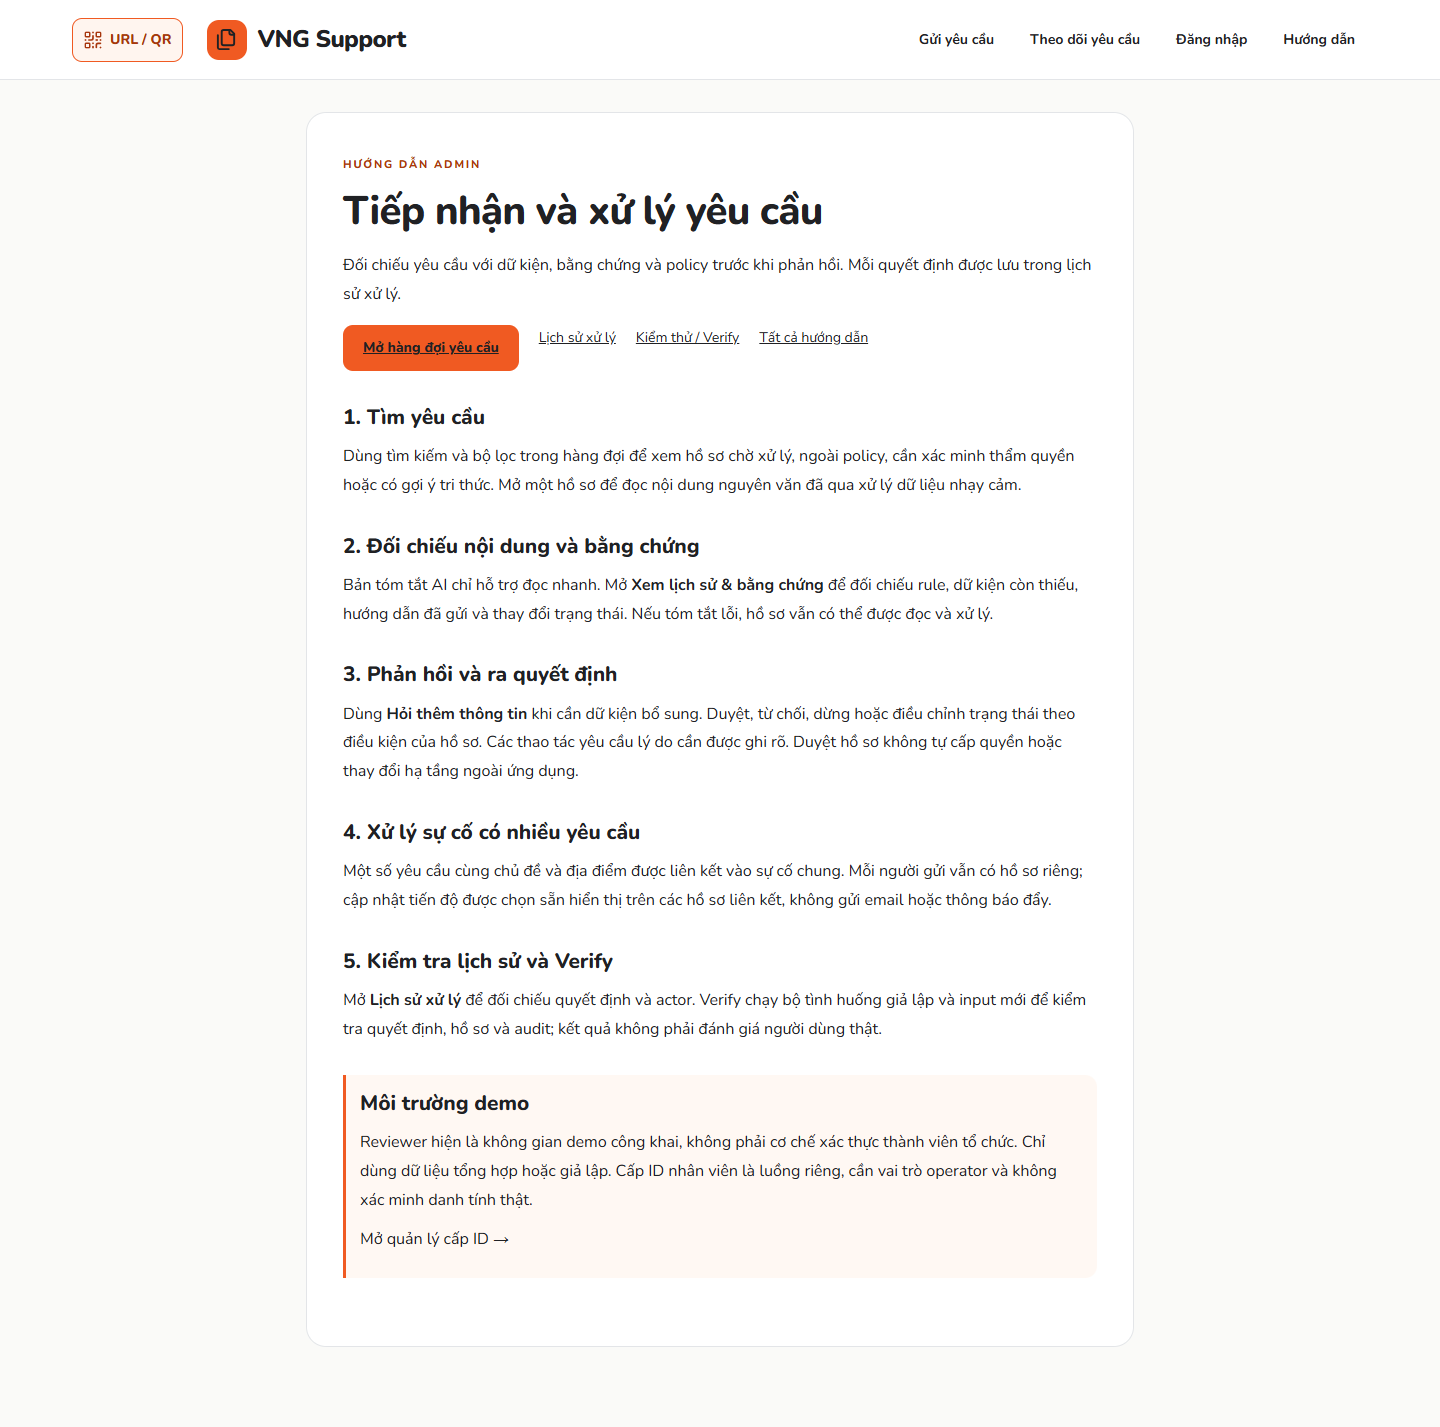
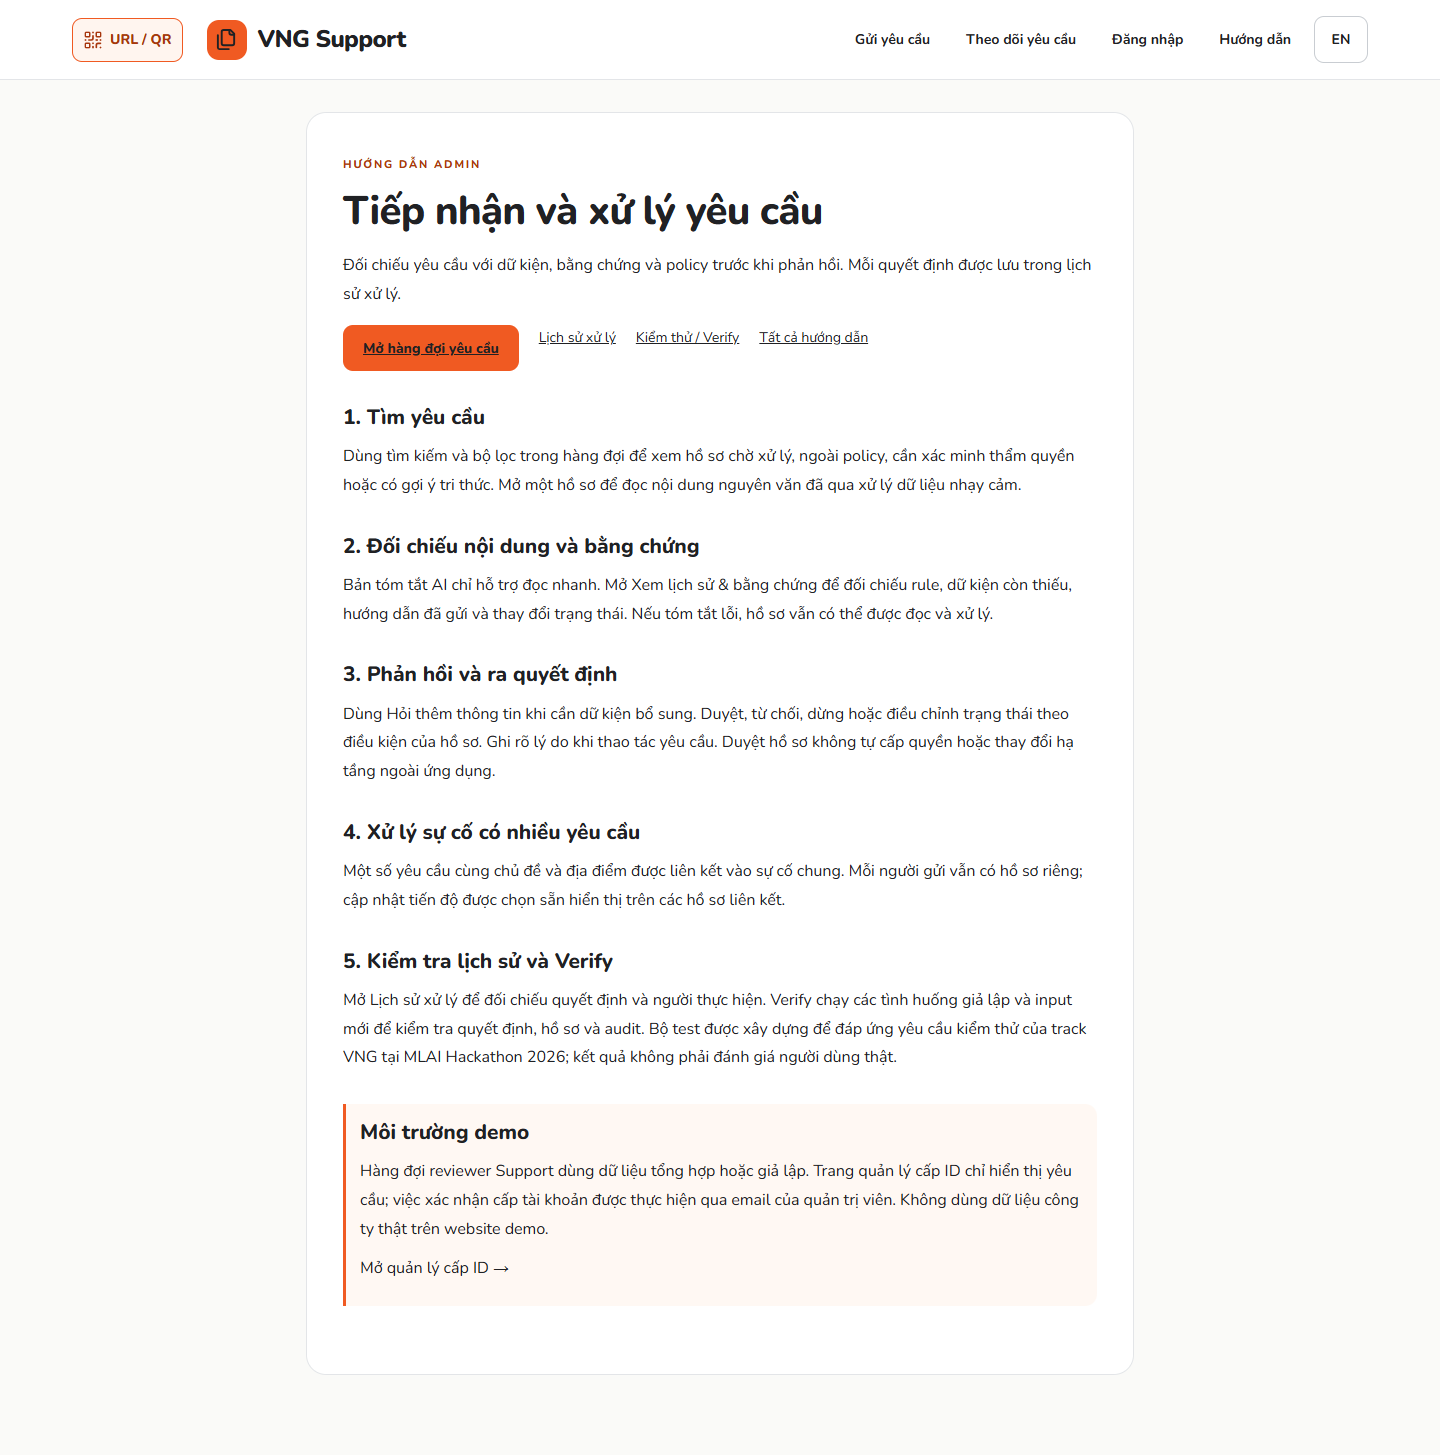
docs: refresh bilingual live screenshots

diff --git a/README.md b/README.md
@@ -91,31 +91,49 @@ The 15-case judge dataset and five-case VNG pack satisfy the competition’s sce
 
 The screenshots below were captured from the [official live deployment](https://nsclub-support-desk.vercel.app), not from another repository.
 
-### Role selection
+### Role selection and language
 
-![Official website home page with requester and Admin entry points](docs/images/official-home.png)
+![Official Vietnamese homepage with sign-in, registration and role entry points](docs/images/official-home.png)
 
-The home page directs requesters and Admin reviewers to their login flows. Visitors can sign in with the published demo credentials `guest01 / 12345` to try the requester workflow; use synthetic data only.
+The home page routes requesters and Admin reviewers to their sign-in flow and includes account registration and a persistent language switch.
 
-### Requester intake and follow-up
+![Official English homepage](docs/images/official-home-en.png)
 
-![Support request form on the official website](docs/images/official-employee-intake.png)
+The English view translates the same entry points and help content.
 
-Requesters can describe the issue freely or select a support category. The form asks for only the context needed to route and assess the request; a preview is shown before a saved case is created.
+### Sign-in and account requests
+
+![Employee ID and password sign-in on the official website](docs/images/official-login.png)
+
+Employees sign in with an issued ID or email and password. The published `guest01 / 12345` account is limited to synthetic requester data.
+
+![New account request form on the official website](docs/images/official-registration.png)
+
+The request form collects a full name and Gmail address. The email becomes the employee login ID; the system owner reviews the request and issues a temporary five-digit password through the email confirmation flow.
+
+![English account request form](docs/images/official-registration-en.png)
+
+The same account request is available in English from the language switch.
+
+### Requester workflow
 
 ![Requester usage guide on the official website](docs/images/official-employee-guide.png)
 
-The requester guide explains how to review a response, confirm or revise it, then use the case link to answer a clarification or continue the conversation. If the system lacks sufficient evidence or model assistance is unavailable, the policy path can ask for more information or route the case for human review instead of claiming it was resolved.
+The guide explains how to sign in, describe a support issue, inspect the AI and policy preview, confirm the request, and continue from its tracking link. Previewing alone does not create a saved case.
+
+![Requester guide in English](docs/images/official-employee-guide-en.png)
+
+The system can provide routine guidance, request missing facts, or route a case for human review when evidence, policy, authority, or model availability does not support an automatic response.
 
 ### Admin review and audit
 
-![Admin support queue on the official website](docs/images/official-admin-queue.png)
-
-The Admin workspace supports filtering and opening a case to inspect its evidence, policy outcome and history before taking an available action. Decisions are recorded for later review.
-
 ![Admin usage guide on the official website](docs/images/official-admin-guide.png)
 
-The Admin guide covers queue triage, reviewer actions, incident updates and Verify. Support review and audit APIs require an Admin session. The owner-only identity request list is read-only; account issuance happens from a single-use link in the owner’s email. The applicant receives their email address as the login ID and a random five-digit demo password. Opening the link acts immediately and may be triggered by an email security scanner. This demo is not a substitute for an organization’s IAM or HR verification process.
+The Admin guide covers queue triage, evidence review, allowed actions, incident updates, audit history and Verify. Support review APIs require an authenticated Admin session.
+
+![Admin guide in English](docs/images/official-admin-guide-en.png)
+
+The owner-only identity request list is read-only; account issuance happens through a single-use link in the owner’s email. The applicant receives their email address as the login ID and a random five-digit demo password. Opening the link acts immediately and may be triggered by an email security scanner. This demo is not a substitute for an organization’s IAM or HR verification process.
 
 ## Run locally
 
@@ -238,31 +256,49 @@ Bộ 15 tình huống giám khảo và bộ VNG 5 ca đáp ứng yêu cầu tìn
 
 Ảnh dưới đây được chụp từ [website chính thức đang triển khai](https://nsclub-support-desk.vercel.app), không lấy từ repo khác.
 
-### Chọn vai trò
+### Chọn vai trò và ngôn ngữ
 
-![Trang chủ website chính thức với lối vào dành cho người gửi và Admin](docs/images/official-home.png)
+![Trang chủ tiếng Việt trên website chính thức với đăng nhập, đăng ký và lối vào theo vai trò](docs/images/official-home.png)
 
-Trang chủ đưa người gửi và Admin đến luồng đăng nhập tương ứng. Đăng nhập bằng `guest01 / 12345` để thử luồng gửi yêu cầu; chỉ nhập dữ liệu tổng hợp.
+Trang chủ đưa người gửi và Admin đến luồng đăng nhập tương ứng, đồng thời có đăng ký tài khoản và nút đổi ngôn ngữ.
 
-### Người gửi yêu cầu và trao đổi tiếp
+![Trang chủ tiếng Anh trên website chính thức](docs/images/official-home-en.png)
 
-![Biểu mẫu yêu cầu hỗ trợ trên website chính thức](docs/images/official-employee-intake.png)
+Phiên bản tiếng Anh giữ nguyên các lối vào và hướng dẫn tương ứng.
 
-Người gửi có thể mô tả tự do hoặc chọn danh mục hỗ trợ. Biểu mẫu thu thập ngữ cảnh cần thiết để đánh giá và định tuyến; hệ thống hiển thị preview trước khi tạo hồ sơ đã lưu.
+### Đăng nhập và yêu cầu cấp tài khoản
+
+![Màn hình đăng nhập bằng ID nhân viên và mật khẩu](docs/images/official-login.png)
+
+Nhân viên đăng nhập bằng ID hoặc email đã được cấp và mật khẩu. Tài khoản `guest01 / 12345` chỉ dùng để trải nghiệm với dữ liệu tổng hợp.
+
+![Biểu mẫu yêu cầu cấp tài khoản trên website chính thức](docs/images/official-registration.png)
+
+Biểu mẫu nhận họ tên và Gmail. Email trở thành ID đăng nhập; chủ hệ thống xem xét yêu cầu và cấp mật khẩu tạm gồm năm chữ số qua luồng xác nhận email.
+
+![Biểu mẫu yêu cầu cấp tài khoản bằng tiếng Anh](docs/images/official-registration-en.png)
+
+Người dùng có thể chuyển biểu mẫu sang tiếng Anh bằng nút đổi ngôn ngữ.
+
+### Luồng nhân viên
 
 ![Hướng dẫn sử dụng dành cho nhân viên trên website chính thức](docs/images/official-employee-guide.png)
 
-Hướng dẫn cho người gửi giải thích cách đọc phản hồi, xác nhận hoặc sửa yêu cầu, sau đó dùng liên kết hồ sơ để trả lời câu hỏi xác minh hoặc tiếp tục hội thoại. Nếu thiếu bằng chứng hoặc mô hình không khả dụng, policy có thể yêu cầu thêm thông tin hay chuyển nhân viên xử lý, thay vì khẳng định sự cố đã được giải quyết.
+Hướng dẫn mô tả cách đăng nhập, nêu vấn đề, kiểm tra preview AI và policy, xác nhận gửi rồi tiếp tục qua liên kết theo dõi. Chỉ xem preview chưa tạo hồ sơ đã lưu.
+
+![Hướng dẫn nhân viên bằng tiếng Anh](docs/images/official-employee-guide-en.png)
+
+Hệ thống có thể hướng dẫn tình huống thường quy, hỏi thêm dữ kiện còn thiếu hoặc chuyển hồ sơ cho người xử lý khi bằng chứng, policy, thẩm quyền hay khả năng model chưa đủ để tự trả lời.
 
 ### Admin review và audit
 
-![Hàng đợi yêu cầu Admin trên website chính thức](docs/images/official-admin-queue.png)
-
-Không gian Admin hỗ trợ lọc hàng đợi và mở hồ sơ để xem bằng chứng, kết quả policy và lịch sử trước khi chọn một thao tác được phép. Các quyết định được ghi lại để tra cứu.
-
 ![Hướng dẫn sử dụng dành cho Admin trên website chính thức](docs/images/official-admin-guide.png)
 
-Hướng dẫn Admin mô tả cách phân loại hàng đợi, phản hồi người gửi, cập nhật sự cố và chạy Verify. API review và audit yêu cầu phiên Admin. Danh sách yêu cầu cấp tài khoản chỉ đọc và chỉ dành cho chủ hệ thống; cấp tài khoản xảy ra khi mở liên kết dùng một lần trong email, sau đó thông tin đăng nhập được gửi đến email người đăng ký. Liên kết cấp ngay khi mở, có thể bị trình quét email tự động kích hoạt và hết hạn sau một giờ. Luồng này không thay thế IAM hoặc quy trình xác minh nhân sự của tổ chức.
+Hướng dẫn Admin trình bày cách phân loại hàng đợi, đối chiếu bằng chứng, chọn thao tác được phép, cập nhật sự cố, xem audit và chạy Verify. API xử lý yêu cầu cần phiên Admin đã xác thực.
+
+![Hướng dẫn Admin bằng tiếng Anh](docs/images/official-admin-guide-en.png)
+
+Danh sách yêu cầu cấp tài khoản chỉ đọc và chỉ dành cho chủ hệ thống; việc cấp tài khoản diễn ra qua liên kết dùng một lần trong email của chủ hệ thống. Người đăng ký nhận email của họ làm ID và mật khẩu demo ngẫu nhiên gồm năm chữ số. Mở liên kết sẽ cấp ngay và có thể bị trình quét bảo mật email tự động kích hoạt. Luồng demo này không thay thế IAM hay quy trình xác minh nhân sự của tổ chức.
 
 ## Chạy local
 
